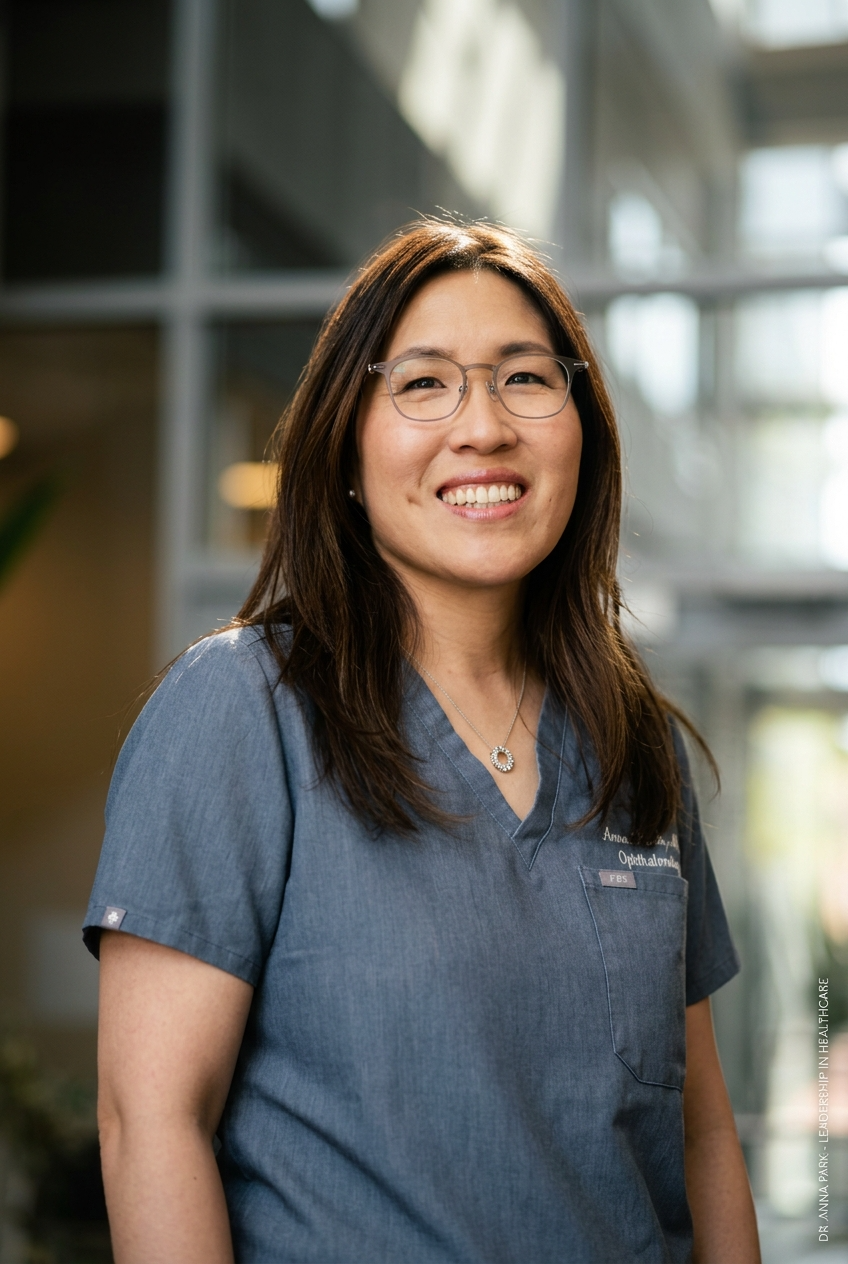
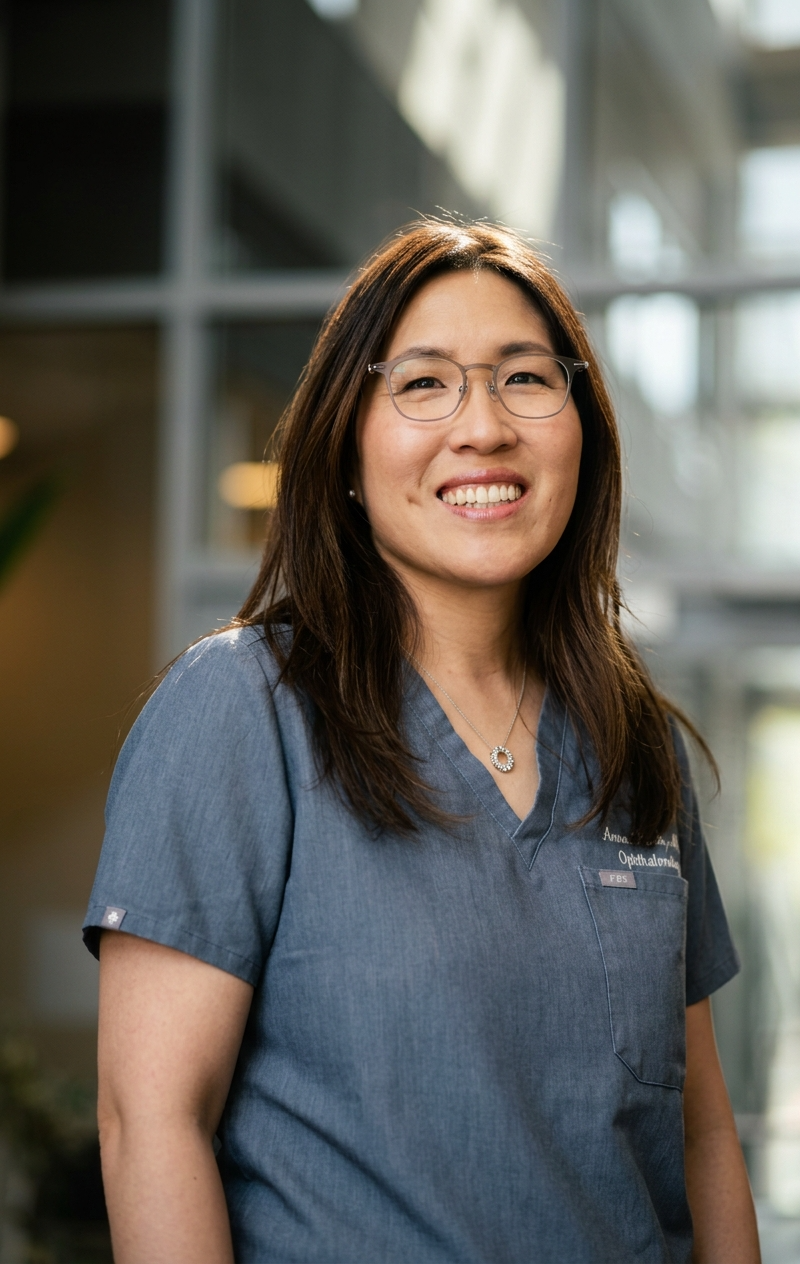
Remove watermark from headshot and tighten site spacing
- Crop out leftover "LEADERSHIP IN HEALTHCARE" watermark text from the
  right edge of the hero headshot; keep the original as a backup file
- Regenerate the social preview image from the cleaned photo, drop the
  "Silver Spring Eye" label baked into it for consistency with the hero
- Reduce padding across hero, sections, press, cards, and footer for a
  tighter overall layout; remove a dead unused CSS rule

diff --git a/AnnaParkMD/index.html b/AnnaParkMD/index.html
@@ -131,11 +131,11 @@
   .nav-overlay a:hover{opacity:1;color:#AFC0F0;}
 
   /* HERO */
-  .hero{display:grid;grid-template-columns:1fr 1fr;min-height:64vh;}
+  .hero{display:grid;grid-template-columns:1fr 1fr;min-height:56vh;}
   .hero-photo{overflow:hidden;background:var(--offwhite);}
   .hero-photo img{width:100%;height:100%;object-fit:cover;object-position:center 20%;}
   .hero-copy{
-    padding:56px 72px;display:flex;flex-direction:column;justify-content:center;
+    padding:44px 72px;display:flex;flex-direction:column;justify-content:center;
   }
   .hero-copy h1{font-size:46px;margin-bottom:10px;}
   .hero-copy .role{
@@ -148,7 +148,7 @@
   .hero-copy .press-note a{color:var(--navy);border-bottom:1px solid var(--navy);}
 
   /* PRESS */
-  .press{background:var(--black);color:#fff;padding:90px 0;}
+  .press{background:var(--black);color:#fff;padding:68px 0;}
   .press .wrap{display:grid;grid-template-columns:0.85fr 1.15fr;gap:70px;align-items:center;}
   .press-lockup{text-align:left;}
   .press-lockup .apac{
@@ -174,10 +174,8 @@
   }
 
   /* SECTION generic */
-  section.block{padding:96px 0;}
+  section.block{padding:68px 0;}
   section.block.alt{background:var(--offwhite);}
-  .section-head{max-width:640px;margin-bottom:52px;}
-  .section-head h2{font-size:36px;}
 
   /* ABOUT (text only) */
   .about-text{max-width:700px;}
@@ -185,27 +183,27 @@
   .about-text blockquote{
     font-family:'Playfair Display',serif;font-style:italic;font-size:22px;
     color:var(--ink);border-left:3px solid var(--navy);padding-left:24px;
-    margin:32px 0;
+    margin:24px 0;
   }
   .about-text blockquote cite{
     display:block;font-family:'Outfit',sans-serif;font-style:normal;font-size:13px;
     color:var(--ink-soft);margin-top:12px;letter-spacing:0.02em;
   }
-  .stat-row{display:flex;gap:44px;margin-top:40px;flex-wrap:wrap;}
+  .stat-row{display:flex;gap:44px;margin-top:28px;flex-wrap:wrap;}
   .stat{border-top:2px solid var(--navy);padding-top:10px;min-width:140px;}
   .stat .num{font-family:'Bebas Neue',sans-serif;font-size:28px;color:var(--navy);letter-spacing:0.02em;text-transform:uppercase;}
   .stat .label{font-size:13px;color:var(--ink-soft);}
 
   /* PRACTICE */
-  .practice-grid{display:grid;grid-template-columns:1.1fr 0.9fr;gap:56px;align-items:start;}
-  .practice-intro p{color:var(--ink-soft);font-size:17px;margin-bottom:28px;max-width:480px;}
-  .feature-list{display:flex;flex-direction:column;gap:22px;}
-  .feature-item{border-top:1px solid var(--line);padding-top:16px;}
+  .practice-grid{display:grid;grid-template-columns:1.1fr 0.9fr;gap:44px;align-items:start;}
+  .practice-intro p{color:var(--ink-soft);font-size:17px;margin-bottom:22px;max-width:480px;}
+  .feature-list{display:flex;flex-direction:column;gap:18px;}
+  .feature-item{border-top:1px solid var(--line);padding-top:14px;}
   .feature-item h4{font-family:'Outfit',sans-serif;font-weight:500;font-size:16px;color:var(--ink);margin-bottom:6px;}
   .feature-item p{font-size:14px;color:var(--ink-soft);margin-bottom:0;max-width:420px;}
   .practice-card{
     background:var(--white);border:1px solid var(--line);border-radius:4px;
-    padding:44px;
+    padding:36px;
   }
   .practice-card .kicker{font-family:'Bebas Neue',sans-serif;letter-spacing:0.18em;font-size:13px;color:var(--navy);margin-bottom:14px;}
   .practice-card h3{font-size:26px;margin-bottom:14px;}
@@ -213,7 +211,7 @@
 
   /* NOON SHOP (compact, secondary) */
   .noonshop-card{
-    border:1px solid var(--line);border-radius:4px;padding:40px 44px;max-width:760px;
+    border:1px solid var(--line);border-radius:4px;padding:36px 40px;max-width:760px;
   }
   .noonshop-card .kicker{font-family:'Bebas Neue',sans-serif;letter-spacing:0.18em;font-size:13px;color:var(--navy);margin-bottom:12px;}
   .noonshop-card h3{font-size:24px;margin-bottom:14px;}
@@ -223,7 +221,7 @@
   .noonshop-card .micro-stat strong{color:var(--navy);font-family:'Bebas Neue',sans-serif;letter-spacing:0.02em;font-size:15px;}
 
   /* FOOTER */
-  footer{background:var(--navy);color:#fff;padding:56px 0 36px;}
+  footer{background:var(--navy);color:#fff;padding:44px 0 28px;}
   footer .wrap{display:flex;justify-content:space-between;align-items:flex-start;flex-wrap:wrap;gap:24px;}
   footer .fbrand{font-family:'Playfair Display',serif;font-size:22px;margin-bottom:6px;}
   footer .froles{font-size:13px;color:#B9C0D4;}
@@ -238,11 +236,11 @@
   @media(max-width:860px){
     .hero{grid-template-columns:1fr;min-height:auto;}
     .hero-photo{aspect-ratio:4/3;}
-    .hero-copy{padding:56px 28px;}
-    .press .wrap{grid-template-columns:1fr;gap:40px;}
+    .hero-copy{padding:36px 28px;}
+    .press .wrap{grid-template-columns:1fr;gap:32px;}
     .hero-copy h1{font-size:36px;}
     .practice-grid{grid-template-columns:1fr;}
-    .practice-card,.noonshop-card{padding:32px 26px;}
+    .practice-card,.noonshop-card{padding:28px 24px;}
     .nav-overlay a{font-size:34px;}
     .nav-overlay{gap:28px;}
     .press-lockup .word{font-size:38px;}
@@ -316,7 +314,7 @@
 <section class="block alt" id="practice">
   <div class="wrap">
     <span class="eyebrow rv">My Practice</span>
-    <h2 class="rv" style="font-size:34px;margin-bottom:32px;">Care first. Comfort always.</h2>
+    <h2 class="rv" style="font-size:34px;margin-bottom:24px;">Care first. Comfort always.</h2>
     <div class="practice-grid">
       <div class="practice-intro">
         <p class="rv">Anna Park, MD believes an eye exam should feel comfortable — the kind of visit where questions get answered, and the visit feels like a partnership to maintain eye health. Her philosophy carried over from nearly two decades in Washington, DC to her current practice at Silver Spring Eye.</p>
@@ -348,7 +346,7 @@
 <section class="block" id="noonshop">
   <div class="wrap">
     <span class="eyebrow rv">Also From Anna Park, MD</span>
-    <h2 class="rv" style="font-size:30px;margin-bottom:32px;">Noon Shop Eyewear</h2>
+    <h2 class="rv" style="font-size:30px;margin-bottom:24px;">Noon Shop Eyewear</h2>
     <div class="noonshop-card rv d1">
       <div class="kicker">Eyewear, Engineered to Fit</div>
       <h3>A Frame That Finally Fits</h3>
